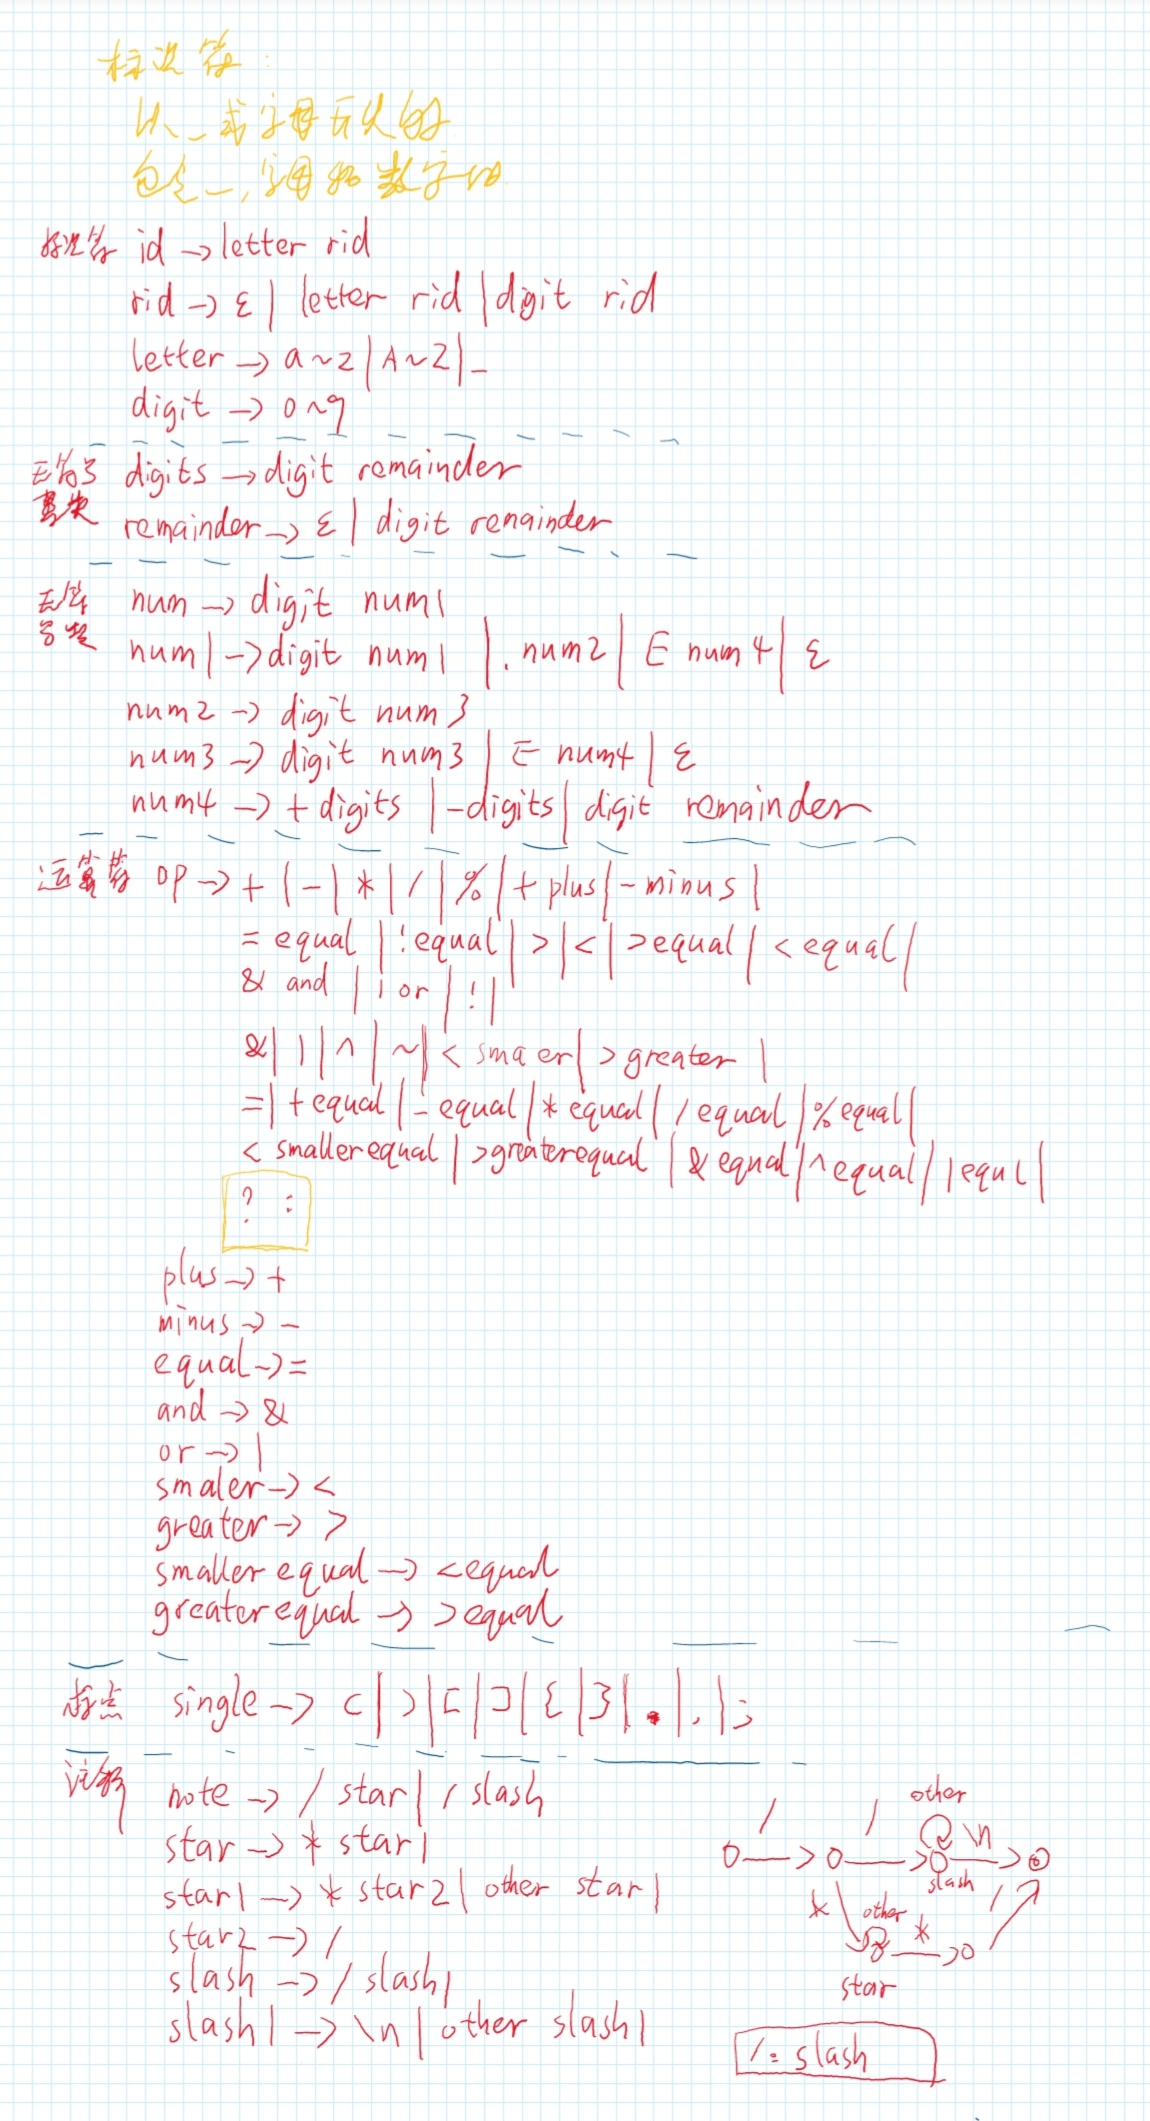
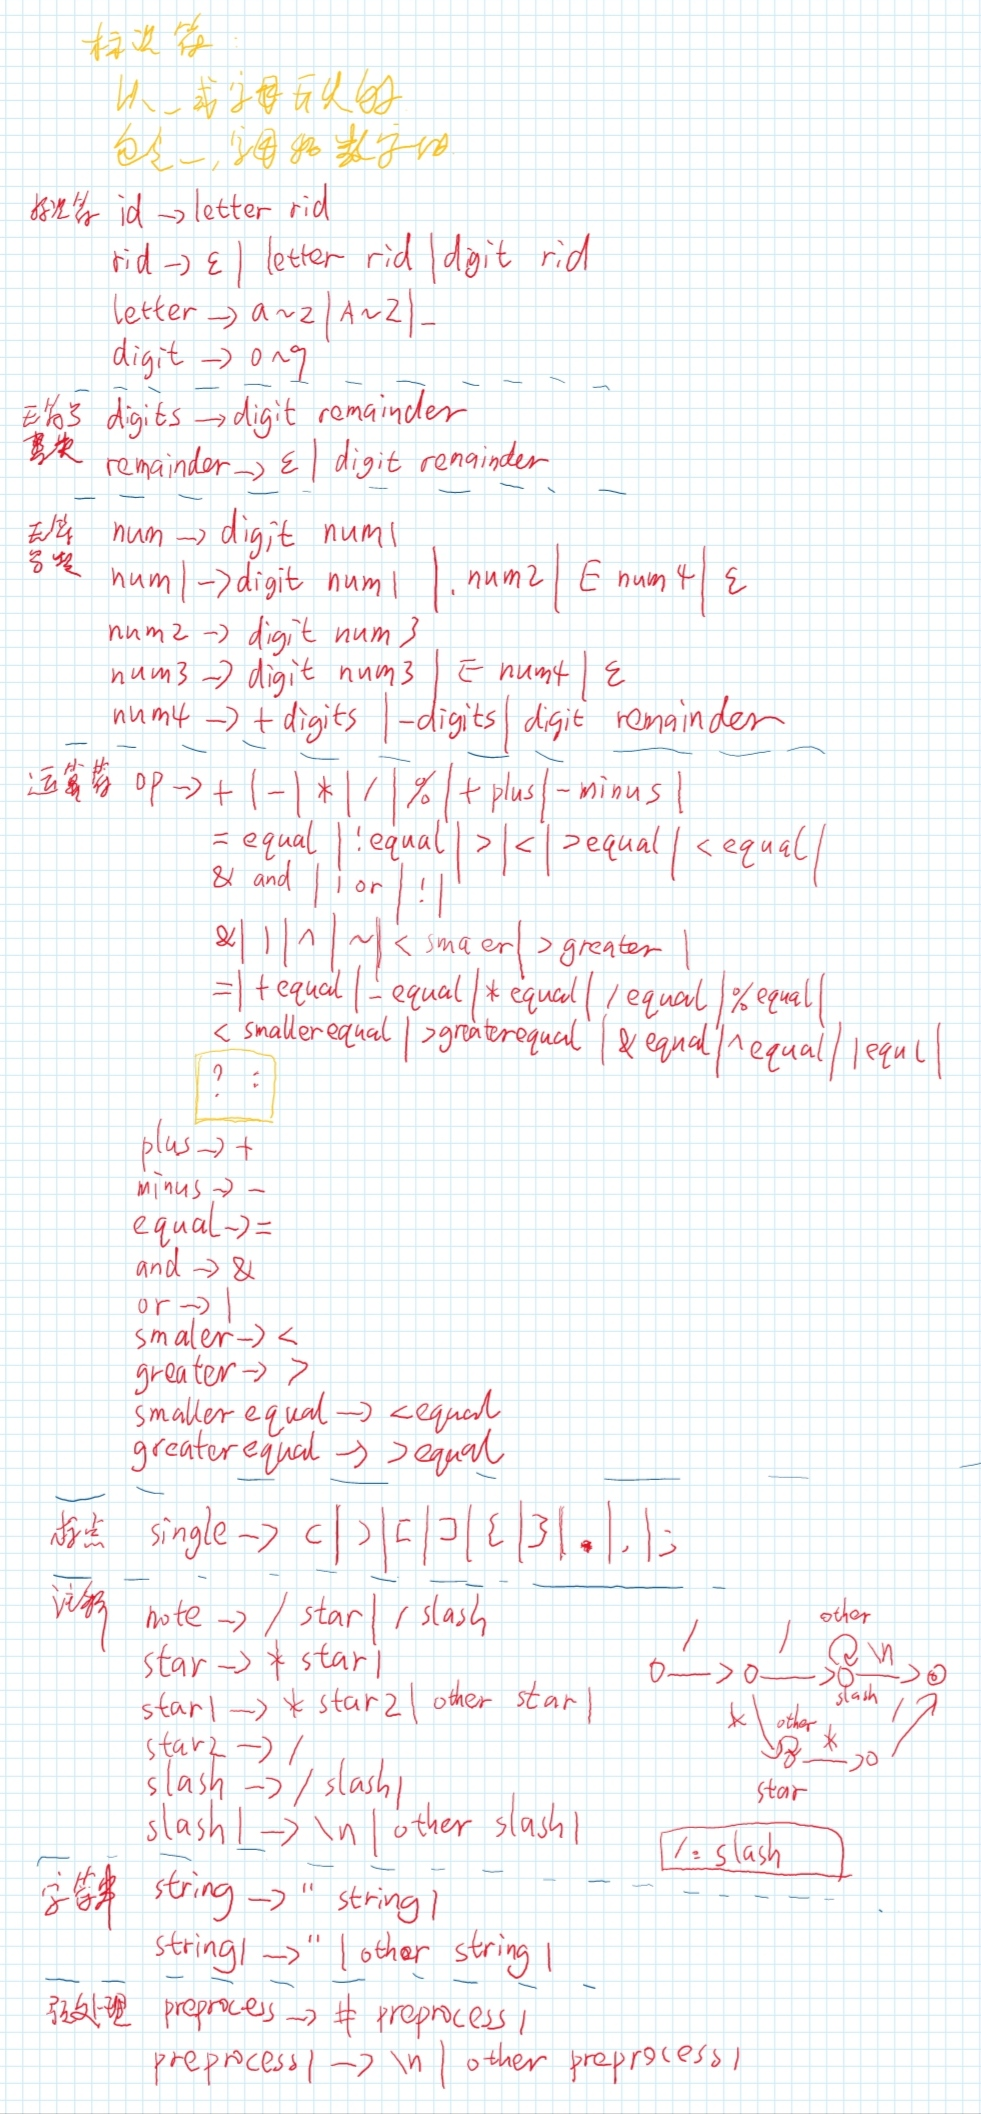
Update doc

diff --git a/document/experimental report.md b/document/experimental report.md
@@ -46,6 +46,10 @@
 
 ![](./note.jpg)
 
+### 自动机
+
+![](.\note2.jpg)
+
 ### C/C++ 版本
 
 程序由一个主函数，一个分析函数和若干辅助函数组成。主要函数设计如下：
